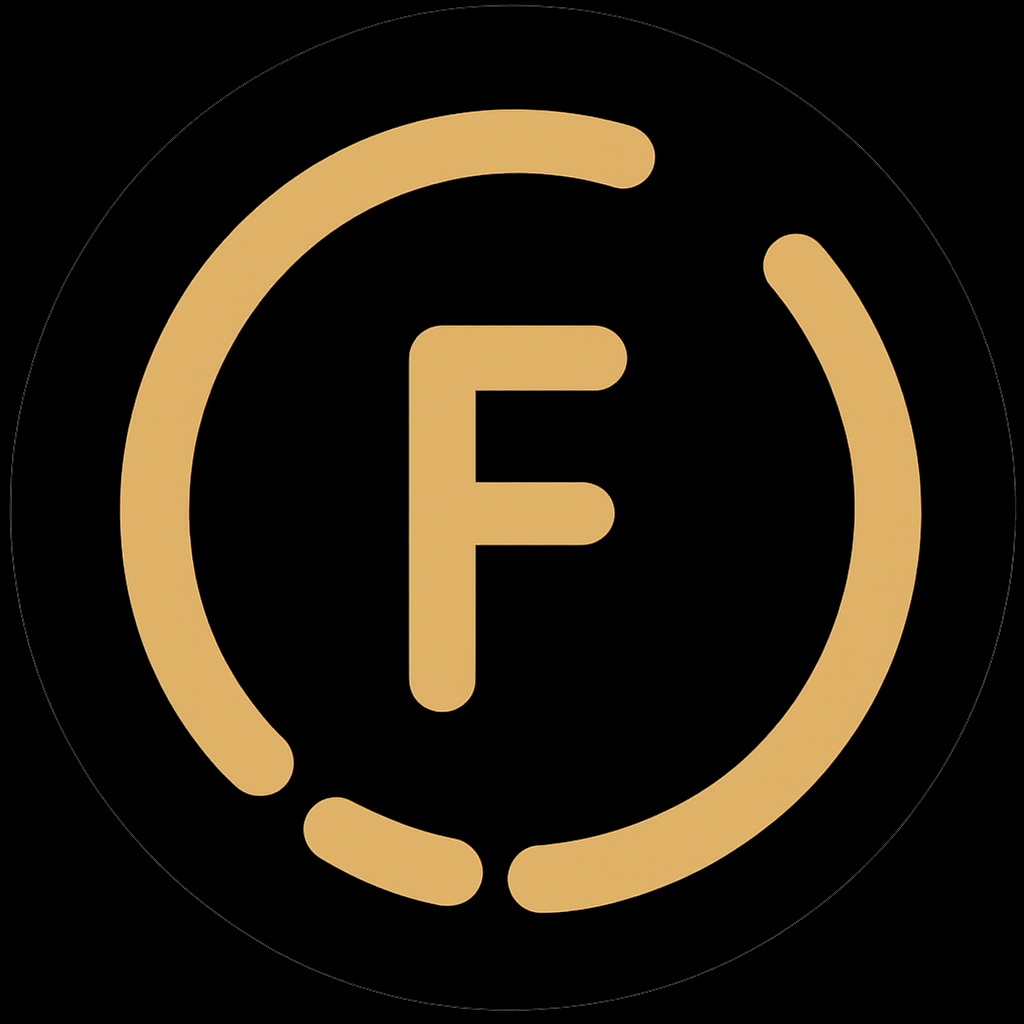
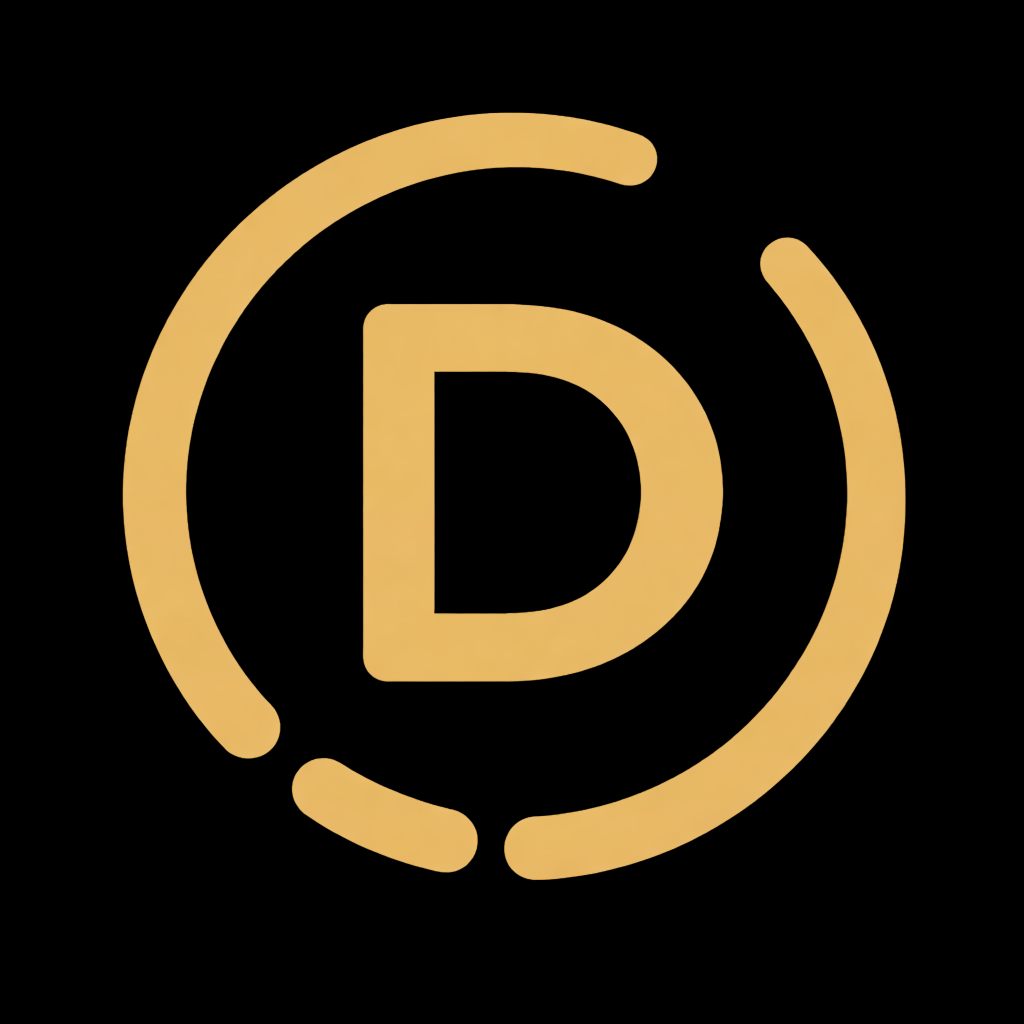
Brand refresh to 'Discipleship Design'

diff --git a/src/app/result/[id]/page.tsx b/src/app/result/[id]/page.tsx
@@ -371,15 +371,15 @@ function NotFoundView() {
         <div className="flex items-center gap-3">
           <div className="relative h-10 w-10 overflow-hidden rounded-xl border border-white/10 bg-black">
             <Image
-              src="/formatio-logo.png"
-              alt="Formatio"
+              src="/dd-logo.png"
+              alt="Discipleship Design"
               fill
               className="object-contain p-1"
               priority
             />
           </div>
           <div className="leading-tight">
-            <div className="text-sm text-white/60">Formatio</div>
+            <div className="text-sm text-white/60">Discipleship Design</div>
             <div className="font-semibold tracking-tight text-[#C6A75E]">
               Playbook not found
             </div>
@@ -446,8 +446,8 @@ export default async function ResultPage({
             <div className="flex items-center gap-3">
               <div className="relative h-10 w-10 overflow-hidden rounded-xl border border-white/10 bg-black">
                 <Image
-                  src="/formatio-logo.png"
-                  alt="Formatio"
+                  src="/dd-logo.png"
+                  alt="Discipleship Design"
                   fill
                   className="object-contain p-1"
                   priority

diff --git a/src/app/layout.tsx b/src/app/layout.tsx
@@ -2,19 +2,19 @@ import type { Metadata } from "next";
 import "./globals.css";
 
 export const metadata: Metadata = {
-  title: "Formatío",
-  description: "Tools For Christian Education",
+  title: "Discipleship Design",
+  description: "Discipleship By Design",
   openGraph: {
-    title: "Formatío",
-    description: "Tools For Christian Education",
-    url: "https://Formatio.church",
-    siteName: "Formatío",
+    title: "Discipleship Design",
+    description: "Discipleship By Design",
+    url: "https://Discipleship.design",
+    siteName: "Discipleship Design",
     images: [
       {
         url: "/og-image.png",
         width: 1200,
         height: 630,
-        alt: "Formatío – Tools For Christian Education",
+        alt: "Discipleship Design – Discipleship By Design",
       },
     ],
     locale: "en_US",
@@ -22,8 +22,8 @@ export const metadata: Metadata = {
   },
   twitter: {
     card: "summary_large_image",
-    title: "Formatío",
-    description: "Tools For Christian Education",
+    title: "Discipleship Design",
+    description: "Discipleship By Design",
     images: ["/og-image.png"],
   },
 };

diff --git a/src/app/intake/page.tsx b/src/app/intake/page.tsx
@@ -197,8 +197,8 @@ export default function IntakePage() {
         <div className="mb-8 flex items-center gap-3">
           <div className="relative h-12 w-12 overflow-hidden rounded-2xl border border-white/10 bg-black">
             <Image
-              src="/formatio-logo.png"
-              alt="Formatio"
+              src="/dd-logo.png"
+              alt="Discipleship Design"
               fill
               className="object-contain p-1"
               priority
@@ -206,11 +206,9 @@ export default function IntakePage() {
           </div>
           <div className="leading-tight">
             <div className="text-xl font-semibold tracking-tight text-[#C6A75E]">
-              Formatio
+              Discipleship Design
             </div>
-            <div className="text-sm text-white/60">
-              Intelligent congregational formation
-            </div>
+            <div className="text-sm text-white/60">Discipleship By Design</div>
           </div>
         </div>
 

diff --git a/src/app/page.tsx b/src/app/page.tsx
@@ -7,17 +7,19 @@ export default function Home() {
     <main className="min-h-screen bg-black text-white">
       <div className="mx-auto flex min-h-screen max-w-5xl flex-col items-center justify-center px-6 text-center">
         <Image
-          src="/formatio-logo.png"
-          alt="Formatío logo"
+          src="/dd-logo.png"
+          alt="dd logo"
           width={220}
           height={220}
           priority
         />
 
-        <h1 className="mt-6 text-3xl font-semibold tracking-tight">Formatío</h1>
+        <h1 className="mt-6 text-3xl font-semibold tracking-tight">
+          Discipleship Design
+        </h1>
 
         <p className="mt-3 max-w-xl text-lg text-white/80">
-          Tools For Christian Education
+          Discipleship By Design
         </p>
 
         {/* CTA Button */}
